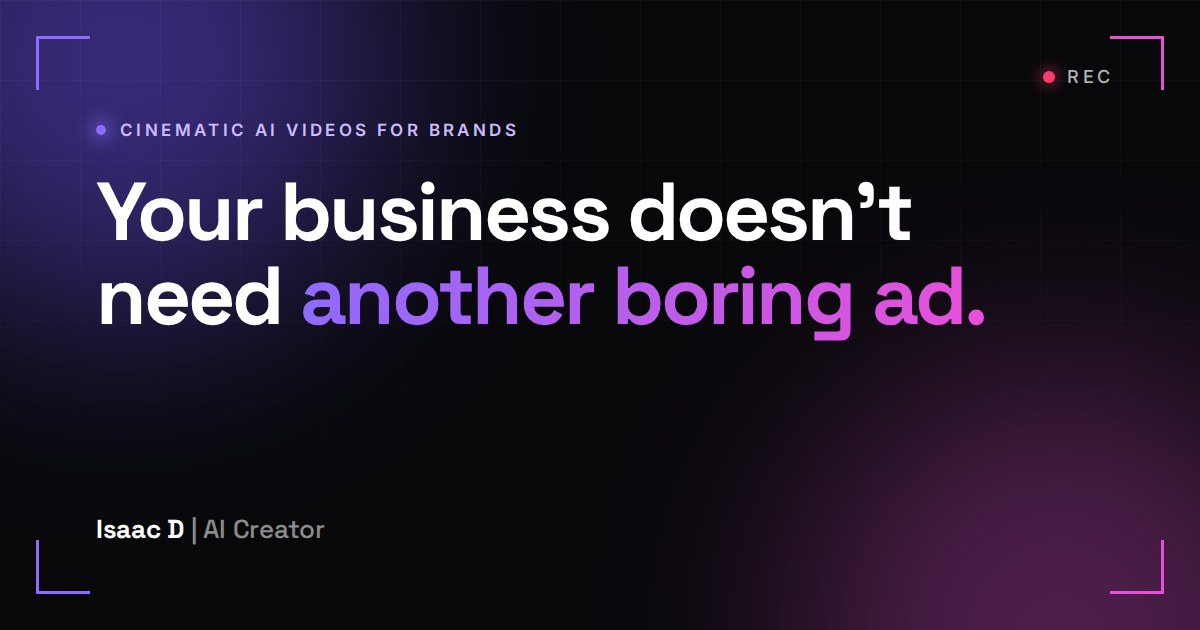
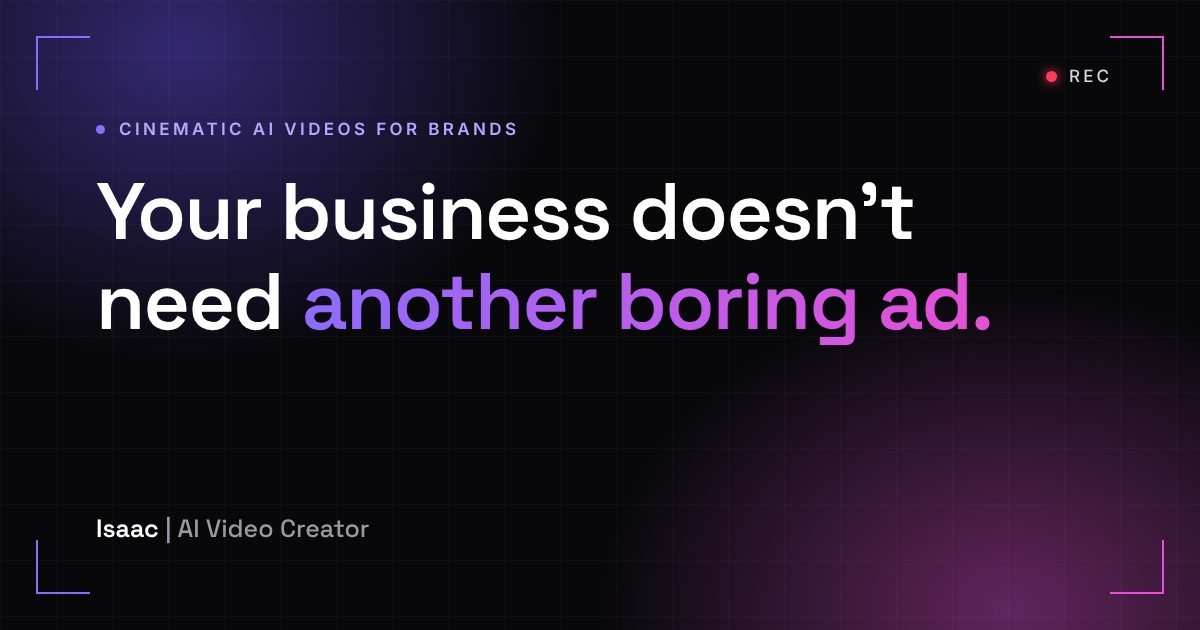
Rename brand to "Isaac | AI Video Creator" everywhere
Updates the site, both pricelists, the admin dashboard, link-preview
metadata, the README, and regenerates og-image.jpg with the new name.

Claude-Session: https://claude.ai/code/session_01Bts87kwcvPkRjLVJ5WtBdV

diff --git a/index.html b/index.html
@@ -3,7 +3,7 @@
 <head>
 <meta charset="UTF-8">
 <meta name="viewport" content="width=device-width, initial-scale=1, viewport-fit=cover">
-<title>Isaac D | AI Creator — Portfolio</title>
+<title>Isaac | AI Video Creator — Portfolio</title>
 <meta name="description" content="Cinematic AI-powered videos, ads and branded content for businesses that want to stand out.">
 <meta name="theme-color" content="#08080b">
 
@@ -26,16 +26,16 @@
      If you move to your own domain, replace https://ai-skill-website.vercel.app below —
      preview images must be full absolute URLs or most apps ignore them. -->
 <meta property="og:type" content="website">
-<meta property="og:site_name" content="Isaac D | AI Creator">
-<meta property="og:title" content="Isaac D | AI Creator — Cinematic AI Videos for Brands">
+<meta property="og:site_name" content="Isaac | AI Video Creator">
+<meta property="og:title" content="Isaac | AI Video Creator — Cinematic AI Videos for Brands">
 <meta property="og:description" content="Your business doesn't need another boring ad. Cinematic AI-powered videos that people actually want to watch.">
 <meta property="og:url" content="https://ai-skill-website.vercel.app/">
 <meta property="og:image" content="https://ai-skill-website.vercel.app/assets/og-image.jpg">
 <meta property="og:image:width" content="1200">
 <meta property="og:image:height" content="630">
-<meta property="og:image:alt" content="Isaac D | AI Creator — cinematic AI videos for brands">
+<meta property="og:image:alt" content="Isaac | AI Video Creator — cinematic AI videos for brands">
 <meta name="twitter:card" content="summary_large_image">
-<meta name="twitter:title" content="Isaac D | AI Creator — Cinematic AI Videos for Brands">
+<meta name="twitter:title" content="Isaac | AI Video Creator — Cinematic AI Videos for Brands">
 <meta name="twitter:description" content="Cinematic AI-powered videos that people actually want to watch.">
 <meta name="twitter:image" content="https://ai-skill-website.vercel.app/assets/og-image.jpg">
 
@@ -59,7 +59,7 @@
 </div>
 
 <nav class="nav" id="nav">
-  <a href="#top" class="brand">Isaac D <span class="grad">| AI Creator</span></a>
+  <a href="#top" class="brand">Isaac <span class="grad">| AI Video Creator</span></a>
 </nav>
 
 <button class="theme-toggle" id="themeToggle" aria-label="Toggle light and dark mode">
@@ -349,7 +349,7 @@
     <!-- Your portrait: assets/images/isaac.jpg (also used on the pricelist pages). Replace the file to update it. -->
     <div class="about-visual reveal">
       <div class="about-photo">
-        <img src="assets/images/isaac.jpg" alt="Isaac D, AI video creator" loading="lazy" onerror="this.remove()">
+        <img src="assets/images/isaac.jpg" alt="Isaac, AI video creator" loading="lazy" onerror="this.remove()">
         <span class="about-initials" aria-hidden="true">ID</span>
       </div>
       <!-- Floating fact cards. Keep these honest; swap in real results once you have them. -->
@@ -394,7 +394,7 @@
 <footer>
   <div class="wrap footer-inner">
     <div>
-      <div class="footer-name">Isaac D | AI Creator</div>
+      <div class="footer-name">Isaac | AI Video Creator</div>
       <div class="footer-tag">AI-powered videos for businesses that want to stand out.</div>
     </div>
     <div class="footer-links">
@@ -404,7 +404,7 @@
       <a href="https://wa.me/2347068716014" target="_blank" rel="noopener" data-track="whatsapp_click" data-track-label="footer"><i class="fa-brands fa-whatsapp" aria-hidden="true"></i> WhatsApp</a>
     </div>
     <div class="footer-ai"><i class="fa-solid fa-wand-magic-sparkles" aria-hidden="true"></i> All videos on this site are AI-generated. Any resemblance to real people is coincidental.</div>
-    <div class="footer-copy">© 2026 Isaac D | AI Creator. All rights reserved.</div>
+    <div class="footer-copy">© 2026 Isaac | AI Video Creator. All rights reserved.</div>
   </div>
 </footer>
 

diff --git a/ngn-price/index.html b/ngn-price/index.html
@@ -3,7 +3,7 @@
 <head>
 <meta charset="UTF-8">
 <meta name="viewport" content="width=device-width, initial-scale=1, viewport-fit=cover">
-<title>Isaac D | AI Creator — Pricelist</title>
+<title>Isaac | AI Video Creator — Pricelist</title>
 <meta name="description" content="Packages for AI-powered video ads and branded content.">
 <meta name="theme-color" content="#08080b">
 
@@ -26,8 +26,8 @@
 
 <!-- Link preview when you send this page on WhatsApp / Telegram / Instagram -->
 <meta property="og:type" content="website">
-<meta property="og:site_name" content="Isaac D | AI Creator">
-<meta property="og:title" content="Isaac D | AI Creator — Pricelist">
+<meta property="og:site_name" content="Isaac | AI Video Creator">
+<meta property="og:title" content="Isaac | AI Video Creator — Pricelist">
 <meta property="og:description" content="Monthly AI video ad and content packages. Pick one and let's get started.">
 <meta property="og:url" content="https://ai-skill-website.vercel.app/ngn-price/">
 <meta property="og:image" content="https://ai-skill-website.vercel.app/assets/og-image.jpg">
@@ -56,7 +56,7 @@
 </div>
 
 <nav class="nav" id="nav">
-  <a href="../" class="brand">Isaac D <span class="grad">| AI Creator</span></a>
+  <a href="../" class="brand">Isaac <span class="grad">| AI Video Creator</span></a>
   <a href="../#work" class="nav-back"><i class="fa-solid fa-play" aria-hidden="true"></i> See my work</a>
 </nav>
 
@@ -89,9 +89,9 @@
   </div>
   <div class="portrait-wrap">
     <div class="portrait">
-      <img src="../assets/images/isaac.jpg" alt="Isaac D, AI video creator">
+      <img src="../assets/images/isaac.jpg" alt="Isaac, AI video creator">
       <div class="portrait-caption">
-        <strong>Isaac D — AI Creator</strong>
+        <strong>Isaac — AI Video Creator</strong>
         Video, Ads &amp; Branded Content
       </div>
     </div>
@@ -238,7 +238,7 @@
 <footer>
   <div class="wrap footer-inner">
     <div>
-      <div class="footer-name">Isaac D | AI Creator</div>
+      <div class="footer-name">Isaac | AI Video Creator</div>
       <div class="footer-tag">AI-powered videos for businesses that want to stand out.</div>
     </div>
     <div class="footer-links">
@@ -247,7 +247,7 @@
       <a href="https://x.com/crypzic?s=11" target="_blank" rel="noopener"><i class="fa-brands fa-x-twitter" aria-hidden="true"></i> X (Twitter)</a>
       <a href="https://wa.me/2347068716014" target="_blank" rel="noopener"><i class="fa-brands fa-whatsapp" aria-hidden="true"></i> WhatsApp</a>
     </div>
-    <div class="footer-copy">© 2026 Isaac D | AI Creator. All rights reserved.</div>
+    <div class="footer-copy">© 2026 Isaac | AI Video Creator. All rights reserved.</div>
   </div>
 </footer>
 

diff --git a/usd-price/index.html b/usd-price/index.html
@@ -3,7 +3,7 @@
 <head>
 <meta charset="UTF-8">
 <meta name="viewport" content="width=device-width, initial-scale=1, viewport-fit=cover">
-<title>Isaac D | AI Creator — Pricelist</title>
+<title>Isaac | AI Video Creator — Pricelist</title>
 <meta name="description" content="Packages for AI-powered video ads and branded content.">
 <meta name="theme-color" content="#08080b">
 
@@ -26,8 +26,8 @@
 
 <!-- Link preview when you send this page on WhatsApp / Telegram / Instagram -->
 <meta property="og:type" content="website">
-<meta property="og:site_name" content="Isaac D | AI Creator">
-<meta property="og:title" content="Isaac D | AI Creator — Pricelist">
+<meta property="og:site_name" content="Isaac | AI Video Creator">
+<meta property="og:title" content="Isaac | AI Video Creator — Pricelist">
 <meta property="og:description" content="Monthly AI video ad and content packages. Pick one and let's get started.">
 <meta property="og:url" content="https://ai-skill-website.vercel.app/usd-price/">
 <meta property="og:image" content="https://ai-skill-website.vercel.app/assets/og-image.jpg">
@@ -56,7 +56,7 @@
 </div>
 
 <nav class="nav" id="nav">
-  <a href="../" class="brand">Isaac D <span class="grad">| AI Creator</span></a>
+  <a href="../" class="brand">Isaac <span class="grad">| AI Video Creator</span></a>
   <a href="../#work" class="nav-back"><i class="fa-solid fa-play" aria-hidden="true"></i> See my work</a>
 </nav>
 
@@ -89,9 +89,9 @@
   </div>
   <div class="portrait-wrap">
     <div class="portrait">
-      <img src="../assets/images/isaac.jpg" alt="Isaac D, AI video creator">
+      <img src="../assets/images/isaac.jpg" alt="Isaac, AI video creator">
       <div class="portrait-caption">
-        <strong>Isaac D — AI Creator</strong>
+        <strong>Isaac — AI Video Creator</strong>
         Video, Ads &amp; Branded Content
       </div>
     </div>
@@ -238,7 +238,7 @@
 <footer>
   <div class="wrap footer-inner">
     <div>
-      <div class="footer-name">Isaac D | AI Creator</div>
+      <div class="footer-name">Isaac | AI Video Creator</div>
       <div class="footer-tag">AI-powered videos for businesses that want to stand out.</div>
     </div>
     <div class="footer-links">
@@ -247,7 +247,7 @@
       <a href="https://x.com/crypzic?s=11" target="_blank" rel="noopener"><i class="fa-brands fa-x-twitter" aria-hidden="true"></i> X (Twitter)</a>
       <a href="https://wa.me/2347068716014" target="_blank" rel="noopener"><i class="fa-brands fa-whatsapp" aria-hidden="true"></i> WhatsApp</a>
     </div>
-    <div class="footer-copy">© 2026 Isaac D | AI Creator. All rights reserved.</div>
+    <div class="footer-copy">© 2026 Isaac | AI Video Creator. All rights reserved.</div>
   </div>
 </footer>
 

diff --git a/admin/index.html b/admin/index.html
@@ -3,7 +3,7 @@
 <head>
 <meta charset="UTF-8">
 <meta name="viewport" content="width=device-width, initial-scale=1">
-<title>Site Dashboard | Isaac D</title>
+<title>Site Dashboard | Isaac</title>
 <meta name="robots" content="noindex, nofollow, noarchive">
 <meta name="theme-color" content="#08080b">
 <link rel="icon" href="../assets/favicon.svg" type="image/svg+xml">
@@ -122,7 +122,7 @@
 <div class="wrap" id="app" hidden>
   <header>
     <div>
-      <h1>Isaac D <span>| Dashboard</span></h1>
+      <h1>Isaac <span>| Dashboard</span></h1>
       <div class="updated" id="updated">Loading…</div>
     </div>
     <div class="controls">

diff --git a/README.md b/README.md
@@ -1,4 +1,4 @@
-# Isaac D | AI Creator — Portfolio
+# Isaac | AI Video Creator — Portfolio
 
 Plain HTML/CSS/JS, no build step. Open `index.html` or upload the folder to any static host.
 
